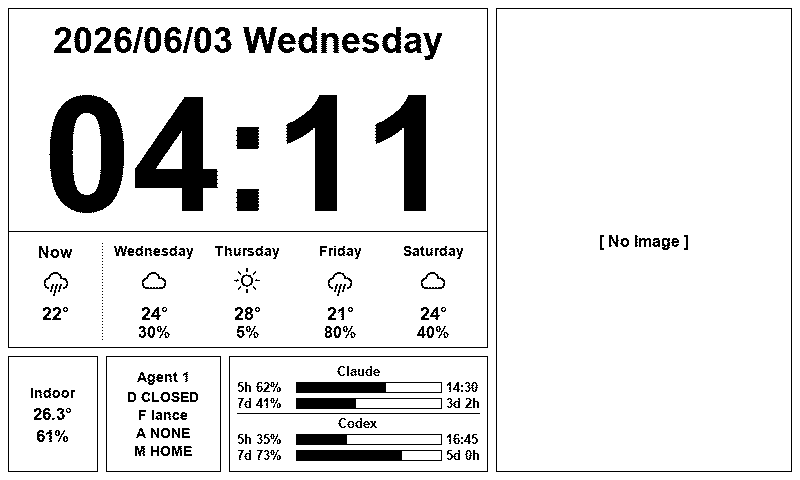
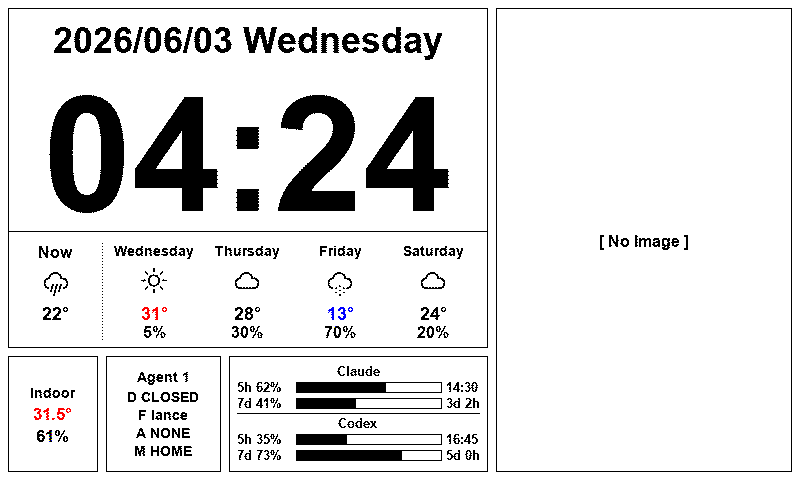
feat(display): color-code temperature text dynamically based on value
- app/display/renderer_utils.py: implement `_temp_color()` helper returning red for hot (>=30°C) and blue for cold (<=15°C)
- app/display/renderer_utils.py: support custom fill color in centered text helper `_cx_text()`
- app/display/renderer_cards.py: apply dynamic temperature coloring in indoor and weather/forecast cards
- scripts/preview_render.py: update mock data to cover all temperature color zones (hot/cold/normal) and regenerate preview PNGs

diff --git a/app/display/renderer_cards.py b/app/display/renderer_cards.py
@@ -17,7 +17,7 @@ from app.display.renderer_constants import (
 )
 from app.display.renderer_utils import (
     _font, _cx_text, _paste_icon, _draw_progress_bar,
-    _pick_daily_forecast, _weather_item,
+    _pick_daily_forecast, _weather_item, _temp_color,
 )
 
 if TYPE_CHECKING:
@@ -73,7 +73,7 @@ def _draw_card_weather(
         _cx_text(draw, now_main[:4], now_x, now_w, fc_y0 + ICO + 10, _font(14, bold=True))
 
     now_temp_str = f"{now_temp:.0f}°" if isinstance(now_temp, (int, float)) else "--"
-    _cx_text(draw, now_temp_str, now_x, now_w, fc_y0 + TMP, _font(18, bold=True))
+    _cx_text(draw, now_temp_str, now_x, now_w, fc_y0 + TMP, _font(18, bold=True), fill=_temp_color(now_temp))
 
     sep_x = ix + now_w + fc_gap // 2
     fc_bottom = WEATHER_Y + WEATHER_H - PAD
@@ -102,7 +102,7 @@ def _draw_card_weather(
 
         fc_temp = entry.get("main", {}).get("temp")
         fc_temp_str = f"{fc_temp:.0f}°" if isinstance(fc_temp, (int, float)) else "--"
-        _cx_text(draw, fc_temp_str, col_x, daily_w, fc_y0 + TMP, _font(18, bold=True))
+        _cx_text(draw, fc_temp_str, col_x, daily_w, fc_y0 + TMP, _font(18, bold=True), fill=_temp_color(fc_temp))
 
         pop = entry.get("pop") or 0
         try:
@@ -160,7 +160,7 @@ def _draw_card_indoor(draw: ImageDraw.ImageDraw, state: "AgentState") -> None:
     sy = iy + max(0, (ih - content_h) // 2)
 
     _cx_text(draw, "Indoor", ix, iw, sy, _font(14, bold=True))
-    _cx_text(draw, temp_str, ix, iw, sy + 19, _font(17, bold=True))
+    _cx_text(draw, temp_str, ix, iw, sy + 19, _font(17, bold=True), fill=_temp_color(state.temperature))
     _cx_text(draw, hum_str, ix, iw, sy + 41, _font(17, bold=True))
 
 

diff --git a/scripts/preview_render.py b/scripts/preview_render.py
@@ -17,7 +17,7 @@ from app.display.image_processor import quantize_to_epaper_palette
 def _make_state() -> AgentState:
     st = AgentState()
 
-    st.temperature = 26.3
+    st.temperature = 31.5   # ≥30 → Red; change to 26.3 (normal) or 13.0 (blue) to test other zones
     st.humidity = 61.0
     st.presence = "OCCUPIED"
 
@@ -33,18 +33,20 @@ def _make_state() -> AgentState:
     st.codex_5h_reset = "16:45"
     st.codex_7d_reset = "5d 0h"
 
-    # Current weather
+    # Current weather — 22°C (black, normal range)
     st.weather_current = {
         "weather": [{"main": "Rain", "description": "light rain"}],
         "main": {"temp": 22.3, "feels_like": 20.1},
     }
 
-    # 4-day forecast — dt_txt is interpreted as UTC by _pick_daily_forecast,
+    # 4-day forecast — spans all three color zones:
+    #   31° red (≥30), 28° black (normal), 13° blue (≤15), 24° black (normal)
+    # dt_txt is interpreted as UTC by _pick_daily_forecast,
     # which converts to host local timezone (not settings.timezone).
     base = datetime.now(timezone.utc).replace(hour=12, minute=0, second=0, microsecond=0)
-    conditions = ["Clouds", "Clear", "Rain", "Clouds"]
-    temps     = [24.5, 28.0, 21.0, 23.5]
-    pops      = [0.30, 0.05, 0.80, 0.40]
+    conditions = ["Clear", "Clouds", "Snow",  "Clouds"]
+    temps     = [31.0,   28.0,    13.0,   24.0]
+    pops      = [0.05,   0.30,    0.70,   0.20]
     st.weather_forecast = [
         {
             "dt_txt": (base + timedelta(days=i + 1)).strftime("%Y-%m-%d %H:%M:%S"),

diff --git a/app/display/renderer_utils.py b/app/display/renderer_utils.py
@@ -7,7 +7,7 @@ from typing import TypeAlias
 
 from PIL import Image, ImageDraw, ImageFont
 
-from app.display.renderer_constants import FG, _WEATHER_SEVERITY
+from app.display.renderer_constants import FG, COLOR_RED, COLOR_BLUE, _WEATHER_SEVERITY
 
 logger = logging.getLogger(__name__)
 
@@ -138,6 +138,17 @@ def _pick_daily_forecast(forecast_list: list[dict], count: int = 4) -> list[dict
     return result
 
 
+def _temp_color(temp: float | None) -> tuple[int, int, int]:
+    """Return display color for a temperature value."""
+    if temp is None:
+        return FG
+    if temp >= 30:
+        return COLOR_RED
+    if temp <= 15:
+        return COLOR_BLUE
+    return FG
+
+
 def _cx_text(
     draw: ImageDraw.ImageDraw,
     text: str,
@@ -145,8 +156,9 @@ def _cx_text(
     col_w: int,
     y: int,
     font: ImageFont.FreeTypeFont | ImageFont.ImageFont,
+    fill: tuple[int, int, int] = FG,
 ) -> None:
     """Draw text horizontally centered within [col_x, col_x+col_w)."""
     bb = draw.textbbox((0, 0), text, font=font)
     tw = bb[2] - bb[0]
-    draw.text((col_x + (col_w - tw) // 2, y), text, font=font, fill=FG)
+    draw.text((col_x + (col_w - tw) // 2, y), text, font=font, fill=fill)
